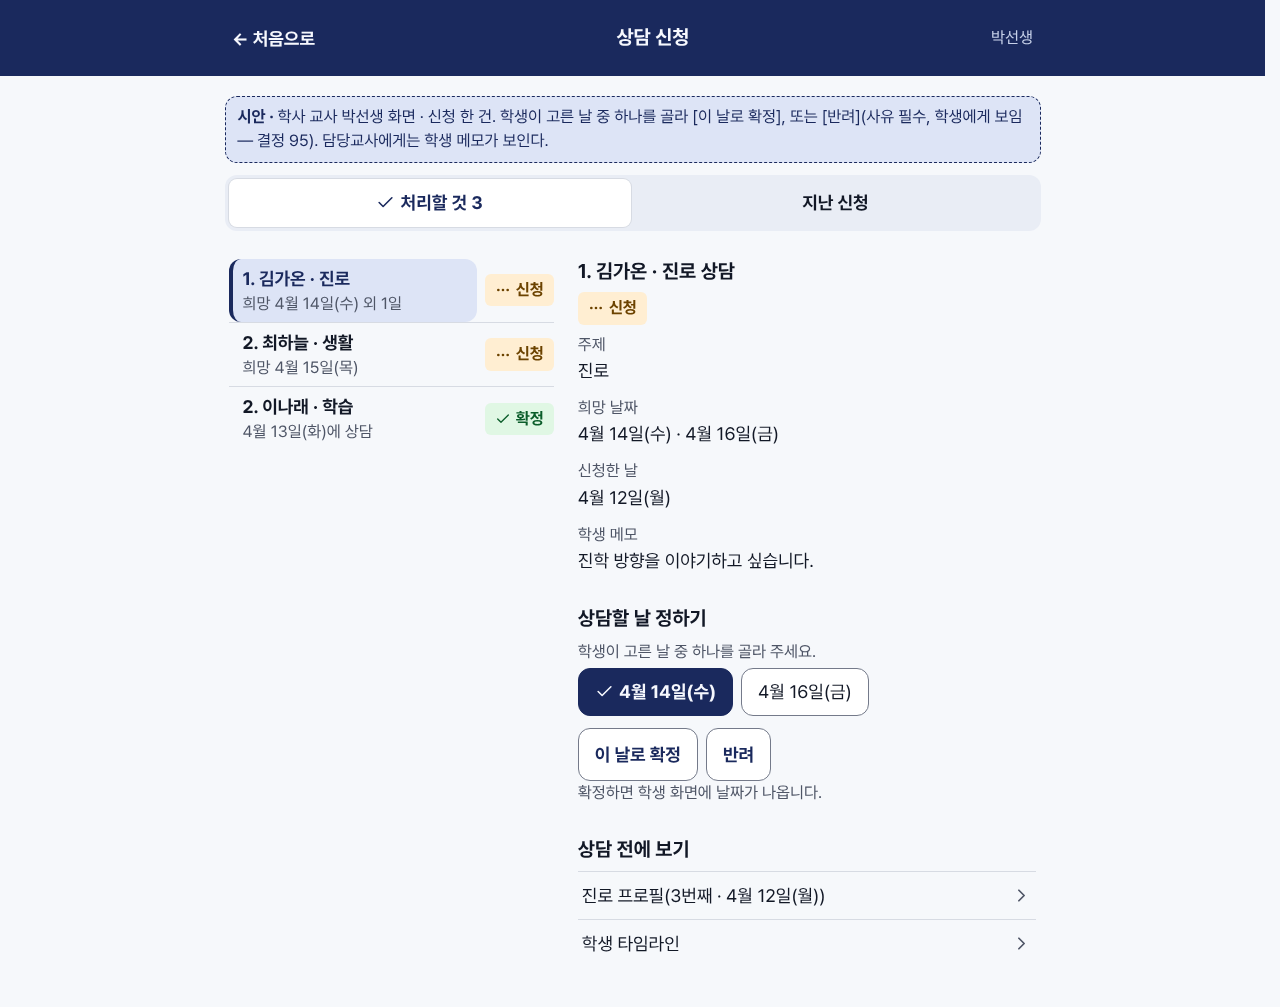
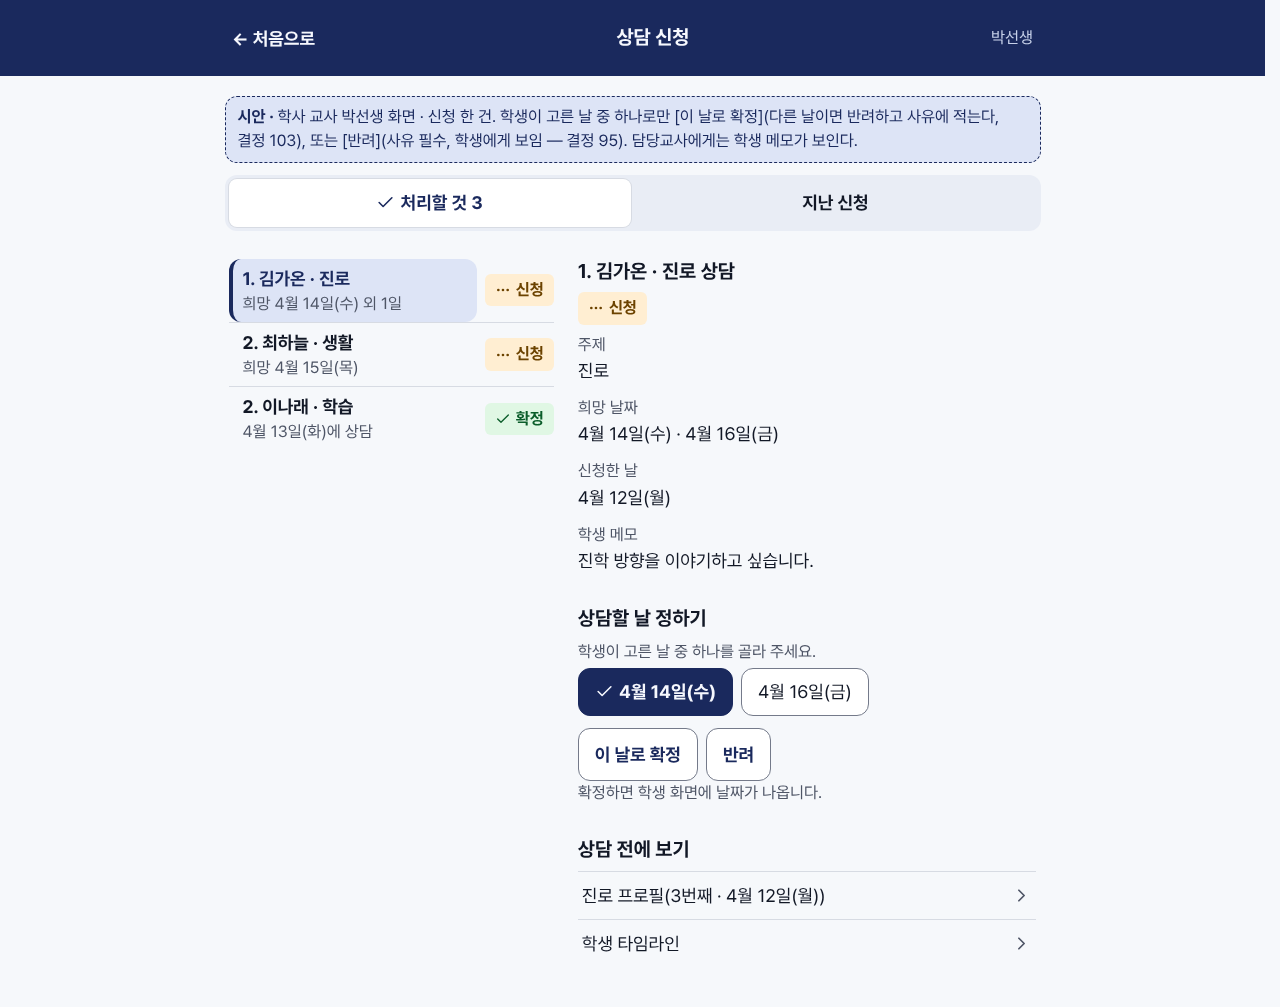
D25: 6단계 시안에 이수 계획·교육과정 올리기 추가, 결정 103 반영 (#316)
- 학생 이수 계획(고르기·택N 막기·과목마다 부모님께 보이기·권장 과목 참고), 학부모, 교사 확정·피드백
- 관리자 교육과정 올리기(붙여 넣기 → 미리 보기 → 저장, 과목 이름 경고·오류 문구)
- 결정 103: [상담 못 함] 버튼, 타임라인의 바뀐 칸 줄 삭제, 상담일지 유형 7가지

Claude-Session: https://claude.ai/code/session_01By8YaWkfK9cbtnKxFetPty

Changed region(s): [[0.1875, 0.0924, 0.8125, 0.1539]]

diff --git a/docs/design/stage6/screens.md b/docs/design/stage6/screens.md
@@ -2,7 +2,7 @@
 
 > **시안입니다.** 실제 화면 코드는 바꾸지 않았습니다(`src/` 변경은 출결 결과 꼬리표 한 줄뿐, 맨 아래 9절). 사진은 미리보기 도구로 그린 정적 화면이고 이름·날짜·글은 모두 가짜입니다(학생 "1. 김가온", 담당 박선생, 담임 최선생, 가짜 오늘 2027년 4월 12일(월)).
 > 근거: 결정 88(감색 면 + 살구 신호), 결정 89~101, `docs/plan/stage6.md`, `docs/plan/stage6-rules-draft.md` 2절 공개 판정표, PRD 5절 F15~F17, `docs/design/writing.md`.
-> 이수 계획(편제표)은 시트 구조 승인 전이라 뺐습니다.
+> 이수 계획과 '교육과정 올리기'는 결정 102 뒤에 더했습니다(10·11절, D25). 결정 103의 답은 본문에 반영했습니다(9절).
 > 다시 찍기: `[PRETENDARD_DIR=…] node design/preview/stage6b.js [화면 id…]` → `design/preview/out/stage6b/`. 화면 코드: `design/preview/stage6b-screens.js`.
 > 사진은 화면마다 `photos/<id>-360.png`(휴대폰)과 `photos/<id>-1280.png`(노트북) 두 장이 있습니다. 아래에는 필요한 것만 붙였습니다.
 
@@ -25,6 +25,10 @@
 | `t-note` | 상담일지 쓰기(더해지는 칸) | 담당교사 | C49 |
 | `t-timeline` | 학생 타임라인 | 담당교사·담임·관리자 | C53 |
 | `a-cleanup` `-confirm` `-empty` | 탐구 원본 정리 | 관리자 | C52 |
+| `s-plan` `s-plan-edit` `-error` `-empty` | 이수 계획 | 학생 | C51 |
+| `p-plan` | 이수 계획(공개된 과목) | 학부모 | C51 |
+| `t-plan-list` `t-plan` `-confirm` | 담당 학생 이수 계획 | 담당교사·담임·관리자 | C51 |
+| `a-curr-pick` `-preview` `-replace` `-error` `-confirm` `-recs` | 교육과정 올리기 | 관리자 | C51 |
 
 모든 화면에 공통: 머리줄 왼쪽 [← 처음으로], 불러오는 중 "불러오는 중입니다…", 불러오기 실패 "불러오지 못했습니다. 화면을 다시 열어 주세요.", 저장 실패 "저장하지 못했습니다. 잠시 뒤 다시 눌러 보고, 또 안 되면 담당 선생님께 알려 주세요."(교사 화면은 "관리자 선생님께"). 학생·학부모 화면은 `body.tone-soft`.
 
@@ -186,9 +190,9 @@
 ![노트북](photos/t-req-1280.png)
 
 - **위:** [처리할 것 n] [지난 신청]. 목록 한 줄 "학년. 이름 · 주제" + "희망 … 외 n일" 또는 "…에 상담" + 꼬리표.
-- **신청 한 건(담당교사):** 주제, 희망 날짜, 신청한 날, **학생 메모**. "상담할 날 정하기": 학생이 고른 날이 칩으로(하나 고름) → [이 날로 확정] / [반려]. "확정하면 학생 화면에 날짜가 나옵니다." 아래 "상담 전에 보기": 진로 프로필·학생 타임라인 바로가기.
+- **신청 한 건(담당교사):** 주제, 희망 날짜, 신청한 날, **학생 메모**. "상담할 날 정하기": 학생이 고른 날이 칩으로(하나 고름) → [이 날로 확정] / [반려]. 확정은 학생이 고른 날 중 하나로만 한다(다른 날이면 반려하고 사유에 적는다, 결정 103). "확정하면 학생 화면에 날짜가 나옵니다." 아래 "상담 전에 보기": 진로 프로필·학생 타임라인 바로가기.
 - **반려**(`t-req-reject`, `UI.confirmWithReason`): "사유는 학생에게 그대로 보입니다. 반려한 신청은 되돌릴 수 없고, 학생이 새로 신청할 수 있습니다." 칸 이름 "학생에게 보일 사유", 2자 이상이어야 [반려]가 켜진다.
-- **확정된 건**(`t-req-fixed`): 상담하는 날, 메모. "상담을 마쳤으면": [상담일지 쓰기] → `t-note`. 일지를 저장하면 신청이 "완료"가 되고 일지와 이어진다. 못 했으면 [반려].
+- **확정된 건**(`t-req-fixed`): 상담하는 날, 메모. "상담을 마쳤으면": [상담일지 쓰기] → `t-note`. 일지를 저장하면 신청이 "완료"가 되고 일지와 이어진다. 상담을 못 했으면 **[상담 못 함]** → 사유 입력(반려와 같은 시트, 제목만 "상담 못 함"). 상태는 "반려"가 되고 사유가 학생에게 보인다(결정 103).
 - **담임이 볼 때**(`t-req-homeroom`, 결정 96): 주제·희망 날짜·신청한 날·상태만. **학생 메모 줄이 아예 없다**(서버가 보내지 않는다. "메모는 볼 수 없습니다" 같은 줄도 넣지 않는다). 확정·반려 버튼 없음. 아래 "담당 선생님(○○○)이 처리합니다. 담임 선생님은 날짜·주제·상태를 봅니다."
 - 알림: "4월 14일(수)로 확정했습니다.", "반려했습니다." 그사이 학생이 취소했으면 "학생이 이 신청을 취소했습니다. 목록을 새로 불러옵니다."
 - 빈 상태: "처리할 상담 신청이 없습니다."
@@ -199,7 +203,7 @@
 
 2단계 상담일지 화면에 네 가지가 더해진다.
 1. **이어진 신청 안내**(신청에서 넘어왔을 때만): "1. 김가온의 진로 상담 신청(4월 14일(수) 확정)에서 넘어왔습니다. 저장하면 신청이 "완료"로 바뀝니다."
-2. **유형**에 진로·진학.
+2. **유형:** 학습·생활·진로·진학·건강·가정·기타(결정 103). 신청에서 넘어오면 신청 주제와 같은 이름의 유형을 미리 골라 준다.
 3. **참고한 진로 프로필**(유형이 진로·진학일 때만): 프로필 버전 고르기(기본 = 가장 최근, "참고하지 않음"도 있음) + 그 버전의 진로 희망·목표 진학·탐구 기록 요약 + [학생 타임라인 열기]. 프로필이 없으면 "이 학생은 아직 진로 프로필을 내지 않았습니다."
 4. **합의 사항·다음 할 일** 칸: 도움말 "학생에게 보입니다. 학생이 "부모님께 보이기"를 켜면 학부모도 봅니다." 내용 칸의 도움말은 "교사만 봅니다. 학생·학부모에게 보이지 않습니다."
 
@@ -215,7 +219,8 @@
 
 | 종류 | 제목 | 아래 줄 |
 | --- | --- | --- |
-| 진로 프로필 | "n번째 기록을 냄" | 바뀐 칸 한 줄(예: 전형이 "아직 모름" → "학생부종합") |
+| 진로 프로필 | "n번째 기록을 냄" | 없음(무엇이 바뀌었는지는 싣지 않는다, 결정 103) |
+| 이수 계획 | "학기 · n과목을 고름" 또는 "n과목 확정" | 과목 이름 |
 | 상담 신청 | "주제 상담 신청" | 희망 날짜(담임에게는 메모 없음) |
 | 상담 | "○○○ · 유형 상담" | "합의: …"(내용은 싣지 않는다. 담당교사는 줄을 눌러 상담일지로) |
 | 탐구 | 주제 제목 또는 "기록 파일 올림 · 새 기록 n건" | 진행 상태·피드백 수. 파일 이름이 달랐으면 꼬리표 **"이름 다름"**(결정 93) |
@@ -250,12 +255,100 @@
 - **빈 상태:** "지금 정리할 탐구 원본 파일이 없습니다." + "졸업·퇴실 뒤 1년이 지난 학생이 생기면 여기에 나옵니다."
 - 자동으로 지우지 않는다. 관리자만 본다.
 
-## 9. 정해 주실 것·알릴 것
+## 9. 정해진 것 (결정 103)
 
-1. **상태 이름 "신청".** `writing.md` 7절은 교사가 아직 안 본 상태를 "요청"으로 쓰기로 했는데, 상담은 규칙 초안대로 "신청"(신청·확정·완료·반려·취소)으로 그렸다. 메뉴 이름이 "상담 신청"이라 "신청"이 자연스럽다고 봤다. 특이사항의 "요청"과 맞출지 정해 주세요.
-2. **"부모님"과 "학부모님".** 학생 화면은 "부모님께 보이기", 학부모 화면 문장은 `writing.md`대로 "학부모님"으로 썼다.
-3. **교사 화면의 "학부모에게 보임" 꼬리표.** 학생이 무엇을 공개했는지 담당교사·담임이 보는 것으로 그렸다(공개 판정표에 따로 금지가 없다). 보이지 않아야 하면 꼬리표만 빼면 된다.
-4. **확정 뒤 상담을 못 한 경우**를 [반려] 하나로 처리했다(규칙 초안의 상태 전이 "확정 → 반려"). 문구가 어색하면 버튼 이름을 "상담 안 함"처럼 따로 둘 수 있다.
-5. **타임라인의 "바뀐 칸 한 줄"**(전형이 … → …)은 규칙 함수 `s6Timeline_` 초안에 없다. 어렵다면 "n번째 기록을 냄"만 둔다.
-6. **출결 결과의 "미인정" 꼬리표**를 살구색에서 주의색(1OUT과 같은 계열)으로 바꿨다(`src/ui/screen_results.html` 한 줄, 총괄 판단). 이 PR에서 `src/`가 바뀐 곳은 이것뿐이다.
-7. 미리보기 도구(`design/preview/stage2.js`)가 글꼴 링크를 바깥으로 내보내지 않고 받아 둔 파일로 답하게 했다. 예전 시안 스크립트도 같은 길로 돈다.
+1. 상담 상태 이름은 **"신청"**(특이사항의 "요청"과 다른 낱말).
+2. 교사 화면의 **"학부모에게 보임"** 꼬리표는 둔다.
+3. 확정 뒤 상담을 못 한 경우: 상태는 "반려" + 사유, **버튼 이름만 [상담 못 함]**.
+4. 타임라인에 "무엇이 바뀌었는지 한 줄"은 **만들지 않는다.**
+5. 확정은 학생이 고른 희망 날짜 중 하나로만. 상담일지 유형은 학습·생활·진로·진학·건강·가정·기타.
+6. 새 부품 `UI.shareCheck`·`UI.versionNav`·`UI.timeline`은 승인 — 코딩 세션이 화면을 만들 때 `Components.html`에 넣는다.
+7. 학생 화면은 "부모님께 보이기", 학부모 화면 문장은 "학부모님".
+
+## 10. 이수 계획 (F15, 결정 99·102)
+
+### 학생 — `s-plan` 내 이수 계획
+
+![내 이수 계획](photos/s-plan-360.png) ![고르기](photos/s-plan-edit-360.png) ![많이 고름](photos/s-plan-error-360.png)
+
+- **위 안내:** ""확정"은 담당 선생님이 확인했다는 표시입니다. 확정된 과목을 바꾸면 다시 "계획"이 되고 선생님이 다시 확인합니다."
+- **학기마다 카드 하나.** 과목 한 줄: 과목 이름 + 상태 꼬리표(계획 = 회색, 확정 = 초록) + 선택군 이름 + **"부모님께 보이기"** 줄(과목마다, 기본 꺼짐. 끌 때는 1절과 같은 확인 시트).
+- 고른 과목이 없는 학기: "아직 고른 과목이 없습니다." + [과목 고르기].
+- **선생님 말씀** 카드(있을 때만) + "선생님 말씀은 나와 선생님만 봅니다. 부모님께는 보이지 않습니다."
+- **희망 학과가 권하는 과목 (참고)** 카드: 가장 최근 진로 프로필의 목표 학과마다 대학·학과, 핵심 권장·권장 과목, "출처: … · 기준 2028학년도", "참고 자료입니다. 이 과목을 들어야만 지원할 수 있다는 뜻이 아닙니다. 궁금하면 담당 선생님과 이야기해 주세요.", [출처 열기]. 목표 진학이 없으면 "진로 프로필에 목표 학과를 적으면 그 학과가 권하는 과목이 여기에 나옵니다.", 자료에 없는 학과면 "이 학과의 권장 과목 자료가 없습니다."
+- **아래 바:** [과목 고르기] → `s-plan-edit`.
+- 교육과정에서 빠진 과목을 이미 골랐으면 그 줄에 회색 꼬리표 "교육과정에서 빠진 과목" + "다른 과목으로 바꿔 주세요."
+- **빈 상태**(`s-plan-empty`): "아직 우리 학년의 교육과정이 올라오지 않았습니다." + "올라오면 여기에서 과목을 고를 수 있습니다. 급하면 담당 선생님께 알려 주세요." 아래 바 없음.
+
+### 학생 — `s-plan-edit` 이수 계획 고르기
+
+- **학년·학기 칩**(하나 고름): 편제표에 있는 학기만 나온다.
+- **꼭 듣는 과목** 카드(읽기만): "모두 함께 듣는 과목이라 고르지 않습니다."
+- **선택군마다 카드:** 제목 "선택군 A · 2과목 고르기", 꼬리표 "2/2 고름"(다 고르면 초록), 과목마다 체크 칸. 희망 학과가 권하는 과목에는 회색 꼬리표 **"핵심 권장"** 또는 **"권장"**.
+- **정해진 수를 다 고르면 남은 칸이 꺼지고**(택N 초과 막기) 아래에 "2과목을 모두 골랐습니다. 바꾸려면 고른 과목 하나를 먼저 빼 주세요."
+- **아래 바:** [저장]. 알림 "저장했습니다." 덜 고른 채로 저장해도 된다(나중에 이어서).
+- **오류**(`s-plan-error`, 서버 검사 `coursePlanCheck_`): 맨 위 "고칠 곳이 1군데 있습니다. 저장하지 않았습니다." + 그 선택군 아래 "선택군 A에서는 2과목까지 고를 수 있습니다. 하나를 빼 주세요." 그 밖에 "이 과목은 우리 학년 교육과정에 없습니다. 화면을 다시 열어 주세요.", "같은 과목을 두 번 고를 수 없습니다."
+
+### 학부모 — `p-plan`
+
+![학부모](photos/p-plan-360.png)
+
+- "진로와 상담" 화면의 진로 카드 아래에 **이수 계획** 카드. 자녀가 켠 과목 줄만 학기별로, 상태 꼬리표와 함께. ""확정"은 담당 선생님이 확인한 과목입니다."
+- 켠 과목이 없으면 카드를 그리지 않는다(빈 상태 문구는 5절 그대로). 권장 과목 참고 자료와 선생님 말씀은 없다.
+
+### 교사 — `t-plan` 담당 학생 이수 계획
+
+![목록](photos/t-plan-list-360.png) ![상세](photos/t-plan-360.png) ![확정 확인](photos/t-plan-confirm-360.png)
+
+![노트북](photos/t-plan-1280.png)
+
+- **목록:** "학년. 이름" + "학기 n과목 · 확인할 것 n" + 꼬리표(확인 n = 살구 `todo`, 확정 = 초록, 안 고름 = 회색). 확인할 것이 있는 학생이 위.
+- **상세:** 학생 머리 카드(입학년도 포함), 학기마다 카드. 과목 줄: 과목 이름 + "선택군 · n과목 중" + 꼬리표("학부모에게 보임", 계획/확정). **"계획" 줄에만 체크 칸** → [고른 n과목 확정]. 아래 "확정은 선생님이 확인했다는 표시입니다. 학생이 과목을 바꾸면 그 줄은 다시 "계획"이 됩니다."
+- **확정 확인 시트:** 제목 "확정", 맨 위 "1. 김가온 · 2학년 1학기 1과목", 줄 과목 이름, "학생 화면에 "확정"으로 보입니다.", "학생이 과목을 바꾸면 다시 "계획"이 됩니다.", "확정할까요?" / [돌아가기] [확정]. 알림 "1과목을 확정했습니다."
+- 확정을 되돌리는 버튼은 없다.
+- **희망 학과가 권하는 과목 (참고)** 카드: 학생 화면과 같은 내용 + "참고 자료이며 판정하지 않습니다."
+- **피드백** 카드: 진로 프로필과 같은 문구("학생에게 보입니다. 학부모에게는 보이지 않습니다. …").
+- **담임·관리자:** 체크 칸, 확정 버튼, 피드백 입력이 없다(보기만).
+- 홈의 할 일에 "이수 계획 확인 n명" 줄을 더한다(0이면 없음).
+
+## 11. 관리자 — 교육과정 올리기 (결정 102)
+
+명단 올리기와 같은 흐름: 종류 고르기 → 붙여 넣기 → 미리 보기 → 저장.
+
+![처음](photos/a-curr-pick-360.png) ![미리 보기](photos/a-curr-preview-360.png) ![다시 올림](photos/a-curr-replace-360.png)
+
+![고칠 줄](photos/a-curr-error-360.png) ![저장 확인](photos/a-curr-confirm-360.png) ![권장 과목](photos/a-curr-recs-360.png)
+
+![노트북](photos/a-curr-preview-1280.png)
+
+- **지금 올라와 있는 자료** 카드: 편제표는 입학년도마다 줄 수, 권장 과목은 기준 연도마다 줄 수.
+- **올릴 자료**(둘 중 하나): 편제표 / 권장 과목.
+- **1. 붙여 넣기:** 여러 줄 글 칸 "표 붙여 넣기"(안내 글 "첫 줄(머리글)부터 함께 붙여 넣어 주세요.") + [미리 보기].
+  - 편제표 도움말: "구글 시트에서 복사하거나 CSV를 붙여 넣습니다. 열 순서: 입학년도, 학년, 학기, 선택군, 택N, 과목. 꼭 듣는 과목은 선택군을 비우고 택N을 0으로 적습니다."
+  - 권장 과목 도움말: "… 열 순서: 기준 연도, 대학, 모집단위, 핵심 과목, 권장 과목, 출처 주소, 출처 제목, 비고. 과목이 여럿이면 ;로 나눕니다."
+- **2. 미리 보기**(아직 저장하지 않음): 제목에 입학년도(또는 기준 연도), 꼬리표 **"추가 n줄"**(초록) · **"바뀌는 줄 n줄"**(주의색) · **"같은 줄 n줄"**(회색), 한 줄 설명, 표.
+  - 처음 올리는 해: 모든 줄을 표로(많으면 앞의 몇 줄 + "앞의 3줄만 보입니다. 620줄 모두 저장됩니다.").
+  - 다시 올리는 해(`a-curr-replace`): 추가·바뀜·빠짐 줄만 표로, 같은 줄은 숫자로만.
+  - 한 번에 한 입학년도(기준 연도)만. 다른 해의 자료는 바뀌지 않는다고 적는다.
+- **경고**(`.notice.warn`, 저장은 된다):
+  - 과목 이름: "과목 이름 n개가 표준 과목 이름과 다릅니다. 그대로 저장할 수 있지만, 권장 과목과 이름이 달라 학생 화면에서 "권장" 표시가 붙지 않습니다." + 줄마다 "5번째 줄 "확률과통계" → 표준 이름 "확률과 통계"가 맞는지 확인해 주세요." 표의 그 칸에 꼬리표 "이름 확인".
+  - 빠지는 과목을 고른 학생: "빠지는 과목 "…"을 이미 고른 학생이 n명 있습니다. 저장해도 학생의 이수 계획 줄은 그대로 남고, 학생 화면에 "교육과정에서 빠진 과목"으로 표시됩니다."
+  - 권장 과목: "대학·모집단위가 같은 줄이 n쌍 있습니다(…). 뒤의 줄만 쓰입니다."
+- **오류**(`a-curr-error`, 하나라도 있으면 아무것도 저장하지 않고 [저장]이 꺼진다): 맨 위 "고칠 줄이 n개 있습니다. 표를 고쳐 다시 붙여 넣어 주세요. 아직 아무것도 저장하지 않았습니다." + 줄 번호별 문구:
+  - "4번째 줄: 택N "둘"은 숫자가 아닙니다. 2처럼 숫자로 적어 주세요."
+  - "3·4번째 줄: 선택군 A의 택N이 줄마다 다릅니다. 같은 선택군은 같은 수로 적어 주세요."
+  - "7번째 줄: 과목 "…"이 2학년 1학기 선택군 A에 두 번 있습니다. 한 줄을 지워 주세요."
+  - "첫 줄에 머리글(입학년도, 학년, …)이 없습니다. 머리글부터 복사해 주세요."
+  - "입학년도가 두 가지(2026, 2027) 섞여 있습니다. 한 번에 한 입학년도만 올려 주세요."
+  - "선택군 B는 과목이 1개인데 택N이 2입니다."
+  - 권장 과목: "n번째 줄: 출처 주소가 없습니다. 대학 발표 자료의 주소를 적어 주세요."
+- **아래 바:** [저장] → 확인 시트: 제목 "저장", 맨 위 "2026학년도 입학 편제표", 줄 "추가 2줄, 바뀌는 줄 3줄, 같은 줄 79줄", "바뀌는 줄의 옛 내용은 "취소"로 남습니다.", "잘못 올렸으면 고친 표를 다시 올리면 됩니다.", "저장할까요?" / [돌아가기] [저장]. 알림 "저장했습니다. 추가 2줄, 바뀐 줄 3줄."
+- 관리자만 본다.
+
+## 12. 알릴 것
+
+1. **"바뀌는 줄"의 뜻.** 결정 102는 "같은 입학년도의 기존 유효 줄은 취소로 바꾸고 새 줄을 쓴다"이다. 시안은 내용이 같은 줄을 "같은 줄"로 세어 건드리지 않는 것으로 그렸다(숫자가 관리자에게 뜻이 있으려면). 모두 취소 + 새로 쓰기로 구현한다면 꼬리표는 "새로 쓰는 줄 n · 취소되는 줄 n"으로 바꾸면 된다.
+2. **빠지는 과목을 이미 고른 학생** 경고와 학생 화면의 "교육과정에서 빠진 과목" 표시는 규칙 초안에 없는 제안이다.
+3. **홈의 "이수 계획 확인 n명"** 줄도 제안이다(분담표에 없음).
+4. 권장 과목 꼬리표("핵심 권장"·"권장")는 과목 이름이 표준 이름과 같을 때만 붙는다 — 그래서 올릴 때 이름 경고를 둔다.
+5. 출결 결과의 "미인정" 꼬리표는 D24에서 주의색으로 바꿨다(`src/` 변경은 그 한 줄뿐, 이번에는 없음).
